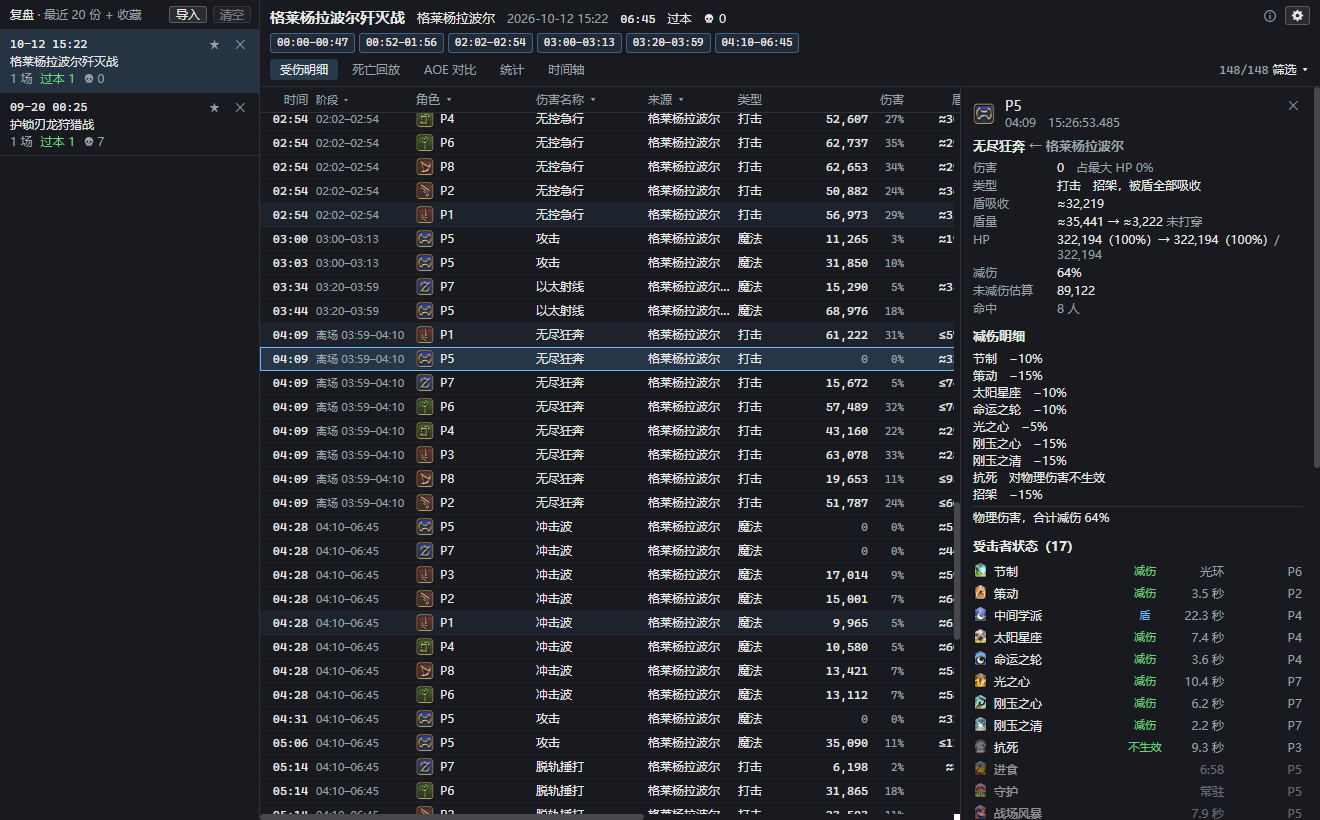
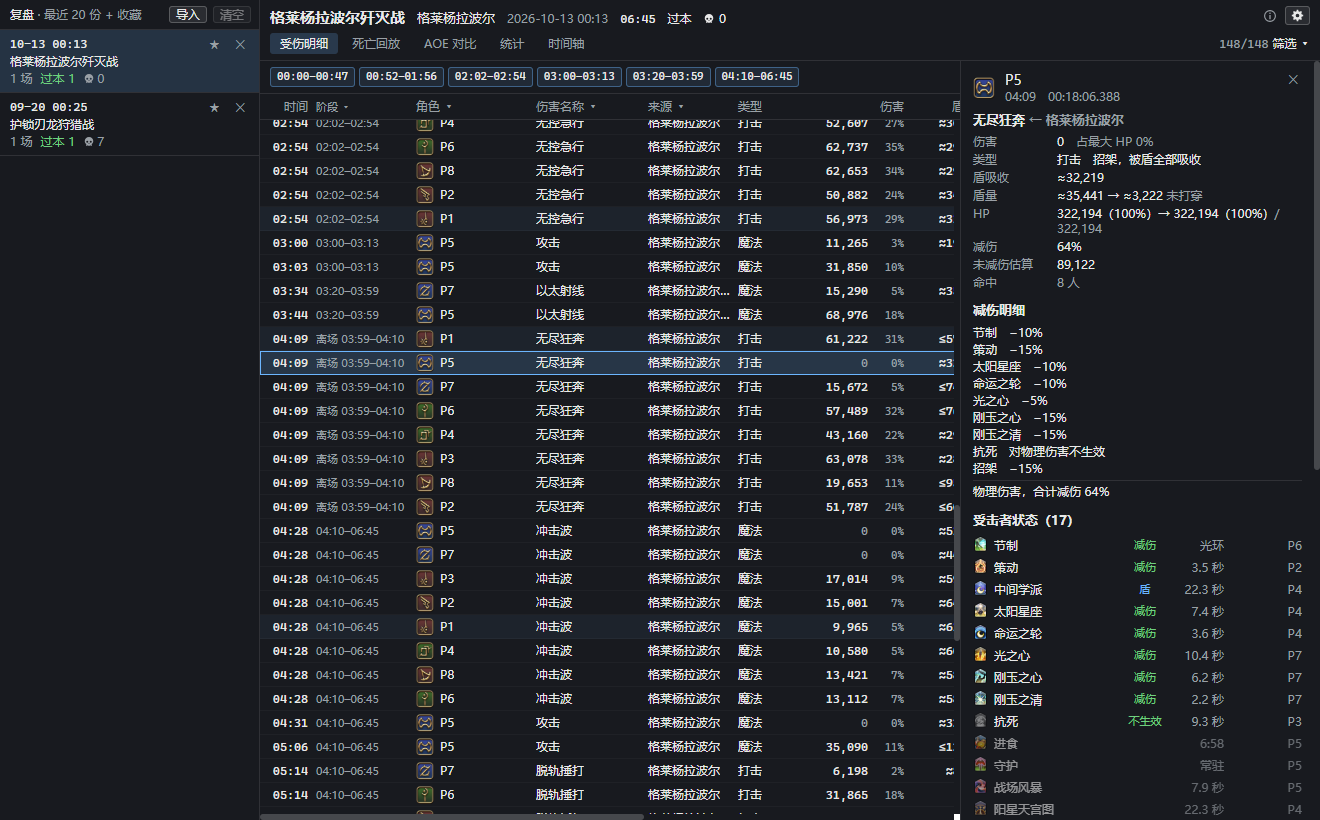
Review window: the phase chips above the damage table only
The chips under the title showed on every tab, yet they narrow the damage
table only: clicked on another tab they jumped back to 受伤明细, and the
one chosen stayed lit over AOE 对比 and the rest. They now sit above the
damage table, on that tab alone; the other tabs show the phases their own
way (AOE 对比's column, 统计's range, the timeline's lane, the death
list). The tab bar no longer moves when switching. The smoke test checks
they are not on AOE 对比 and sit above the table; DESIGN.md's layout and
the README's screenshots follow.

diff --git a/src/app/pages/ReviewPage.vue b/src/app/pages/ReviewPage.vue
@@ -198,7 +198,6 @@ const onlyPhase = computed(() => {
 /** A phase chip: the damage table showing only that stretch 在场 (again: all of them). */
 function showPhase(label: string): void {
   filterState.update({ hiddenPhases: onlyPhase.value === label ? [] : inPlay.value.map((p) => p.label).filter((x) => x !== label) });
-  if (tab.value !== "damage") go({ tab: "damage", row: undefined });
 }
 /** The timeline's lanes; computed only while the timeline tab shows them. */
 const timeline = computed(() => {
@@ -265,18 +264,6 @@ const header = computed(() => {
           <span class="deaths" title="死亡次数"><UiIcon name="death" /> {{ header.deaths }}</span>
         </div>
         <div v-else class="title dim">{{ loading ? "读取中…" : "选择左边的一场战斗" }}</div>
-        <div v-if="loaded && inPlay.length > 1" class="phases">
-          <button
-            v-for="p in inPlay"
-            :key="p.label"
-            class="phase-chip num"
-            :class="{ on: onlyPhase === p.label }"
-            :title="`${phaseSpan(p, loaded.meta.start, phaseEnd)}\n点击：受伤明细只看这一段在场的时间，再点一次恢复`"
-            @click="showPhase(p.label)"
-          >
-            {{ p.label }}
-          </button>
-        </div>
         <div class="top-actions">
           <CalcNotes />
           <button class="gear" title="设置" aria-label="设置" @click="openSettingsWindow()"><UiIcon name="gear" :size="13" /></button>
@@ -304,17 +291,31 @@ const header = computed(() => {
         <div v-if="error" class="error">{{ error }}</div>
       </div>
       <div class="content">
-        <DamageTable
-          v-if="tab === 'damage'"
-          :rows="shown"
-          :by-id="loaded?.byId ?? new Map()"
-          :options="options"
-          :selected-id="selectedRowId"
-          :scroll-to="scrollToId"
-          :self-id="loaded?.selfId"
-          :phase-of="phaseLabelOf"
-          @select="selectRow"
-        />
+        <!-- The stretches 在场 narrow the damage table only, so they sit above it. -->
+        <div v-if="tab === 'damage'" class="damage-tab">
+          <div v-if="loaded && inPlay.length > 1" class="phases">
+            <button
+              v-for="p in inPlay"
+              :key="p.label"
+              class="phase-chip num"
+              :class="{ on: onlyPhase === p.label }"
+              :title="`${phaseSpan(p, loaded.meta.start, phaseEnd)}\n点击：只看这一段在场的时间，再点一次恢复`"
+              @click="showPhase(p.label)"
+            >
+              {{ p.label }}
+            </button>
+          </div>
+          <DamageTable
+            :rows="shown"
+            :by-id="loaded?.byId ?? new Map()"
+            :options="options"
+            :selected-id="selectedRowId"
+            :scroll-to="scrollToId"
+            :self-id="loaded?.selfId"
+            :phase-of="phaseLabelOf"
+            @select="selectRow"
+          />
+        </div>
         <!-- One instance per encounter: their own state (filters, selection) survives the live reloads of a recording. -->
         <template v-else-if="loaded">
           <DeathReplay
@@ -414,11 +415,20 @@ main {
 .live {
   color: var(--ok);
 }
+.damage-tab {
+  flex: 1;
+  min-width: 0;
+  min-height: 0;
+  display: flex;
+  flex-direction: column;
+}
 .phases {
+  flex: none;
   display: flex;
   flex-wrap: wrap;
   gap: 4px;
-  margin-bottom: 6px;
+  padding: 6px 10px;
+  border-bottom: 1px solid var(--line);
 }
 .phase-chip {
   padding: 0 6px;

diff --git a/docs/DESIGN.md b/docs/DESIGN.md
@@ -523,7 +523,7 @@ ACT 的解析范围（Parse Filter）不影响日志行（2.1），但决定 ACT
 - **同一时刻的变化一起算**：刚开始就结束的离场不算；在上一段离场结束的那一刻又开始的离场，并回上一段（xivanalysis 把首尾相接的停手时间合并）。这不是时长阈值，两者的长度都是 0
 - **主 boss**：玩家打过的敌人里最大 HP 最高的那个，只用来显示 HP
 - **不编号**：每个副本的 P1、P2 是社区攻略的叫法，不一定和离场、可选与否的划分一致，所以不叫 P 几。窗口之间的“在场”时段和“离场”窗口都按这一场里的时间命名：`00:00–00:47`、`离场 00:47–00:52`；还没结束的写“03:40 起”。直到战斗结束都没回来的窗口是战斗的结局（击杀、团灭），不算
-- **筛选只列在场时段**：复盘标题下的阶段按钮、伤害表阶段列的过滤、统计页的范围只列在场时段，不列离场窗口；勾掉任何一段时，离场窗口里的受击也隐藏（筛选显示的是勾选的在场时段）。名字是这一场的时间，换一场就清掉阶段过滤
+- **筛选只列在场时段**：受伤明细上方的阶段按钮、伤害表阶段列的过滤、统计页的范围只列在场时段，不列离场窗口；勾掉任何一段时，离场窗口里的受击也隐藏（筛选显示的是勾选的在场时段）。名字是这一场的时间，换一场就清掉阶段过滤
 - 效果：格莱杨拉波尔（`trial-phases` 夹具）有六段在场、五段离场（三次约 6 秒的跳开各是一段离场，转场中间小怪可打的那段是一段在场）
 - **只存窗口，不存阶段**：引擎把主 boss（`Encounter.boss`）和不可选窗口（`Encounter.untargetable`）记在场次上，阶段由 `derivePhases(encounter, now)` 现算；一行属于哪个阶段按时间查（`phaseAt`），行里不存。规则改了，旧存档重算就生效（3.2）
 - **局限**：换体的 boss（新的 ID、相同的最大 HP）只跟踪第一体的 HP，后面阶段的 HP 停在换体时（温达斯：第三巡行的神龙）；一次拉多个小 boss 的副本，主 boss 可能中途换人。阶段只用来分段，HP 数字仅供参考
@@ -785,8 +785,8 @@ class ReplayDetail {
 ```
 ┌────────────────────────┬───────────────────────────────────────────────────────────────┐
 │ 复盘 · 保留最近 20 份   │ 水晶塔 希尔科斯塔 · 始皇帝赞德 · 第 2 / 2 场 · 20:09 · 02:44 · 过本 │
-│ 10-08 20:00      ★ ✕  │ [00:00–01:35] [01:47–02:37]   （只列在场时段）                  │
-│ 水晶塔 希尔科斯塔        │ [受伤明细] [死亡回放] [AOE 对比] [统计] [时间轴]                  │
+│ 10-08 20:00      ★ ✕  │ [受伤明细] [死亡回放] [AOE 对比] [统计] [时间轴]                  │
+│ 水晶塔 希尔科斯塔        │ [00:00–01:35] [01:47–02:37]   （受伤明细的，只列在场时段）      │
 │ 2 场 过本 1 骷髅 0         │ ┌──────────────────────────────────────────┬────────────────┐ │
 │  1 20:09 才思敏捷的亚蒙  │ │ 当前标签页                                │ 详情侧栏        │ │
 │  2 20:09 始皇帝赞德 过本 │ │                                          │ 选中行的完整快照 │ │
@@ -795,7 +795,7 @@ class ReplayDetail {
 └────────────────────────┴───────────────────────────────────────────────────────────────┘
 ```
 
-左栏是复盘列表（2026-10-08 起按份列出，6.2）：每一份是一次进入区域的全部战斗，写着进入后第一场的时间、区域、场数、过本 / 团灭各几场、死亡数，可收藏、删除（整份），导出在 M9；从日志导入的标“导入”（悬停看文件名）。标题栏右边的“导入日志”从 ACT 的网络日志里选场次导入（9.5）。新的在上，有一场正在记录的标“记录中”并实时更新。点一份打开它最近的一场；选中的那份在下面列出各场（序号、开打时间、主要敌人的名字、结果、时长、死亡数），点一场切过去，一份只有一场时不列。顶部标题栏显示区域、这一场的主要敌人、第几场 / 共几场、开始时间、时长、结果、死亡数，没有过本时（团灭、未知、记录中）加上 boss 最后的 HP，如“炽红 剩余 12.3%”；标题下面一排是阶段（5.9，只有一个阶段时不显示），每个阶段一个按钮，写着起止时间，悬停看 boss HP 的变化，点一下受伤明细只看这个阶段（等于表头的阶段过滤），再点一下恢复；标签页：受伤明细、死亡回放、AOE 对比、统计（M5）、时间轴（M8，8.6）。
+左栏是复盘列表（2026-10-08 起按份列出，6.2）：每一份是一次进入区域的全部战斗，写着进入后第一场的时间、区域、场数、过本 / 团灭各几场、死亡数，可收藏、删除（整份），导出在 M9；从日志导入的标“导入”（悬停看文件名）。标题栏右边的“导入日志”从 ACT 的网络日志里选场次导入（9.5）。新的在上，有一场正在记录的标“记录中”并实时更新。点一份打开它最近的一场；选中的那份在下面列出各场（序号、开打时间、主要敌人的名字、结果、时长、死亡数），点一场切过去，一份只有一场时不列。顶部标题栏显示区域、这一场的主要敌人、第几场 / 共几场、开始时间、时长、结果、死亡数，没有过本时（团灭、未知、记录中）加上 boss 最后的 HP，如“炽红 剩余 12.3%”；受伤明细的表格上方一排是阶段（5.9，只有一个阶段时不显示；2026-10-13 起放在这里，原先在标题下面、每个标签页都有，却只对受伤明细起作用，用户反馈不合逻辑），每个阶段一个按钮，写着起止时间，悬停看 boss HP 的变化，点一下受伤明细只看这个阶段（等于表头的阶段过滤），再点一下恢复；标签页：受伤明细、死亡回放、AOE 对比、统计（M5）、时间轴（M8，8.6）。
 
 实现：`app/pages/ReviewPage.vue`，组件在 `app/components/review/`（`EncounterList`、`DamageTable`、`DetailPanel`、`DeathReplay`、`HpChart`、`AoeCompare`、`StatsView`、`CalcNotes`），读存档和实时跟看在 `app/composables/useReviewArchive.ts`。
 
@@ -835,7 +835,7 @@ class ReplayDetail {
 
 **护盾报告分不开的几下**（5.6）：每一下各占一行（2026-10-08 起，原先合成一行“护龙威压 ×3 + 咆哮”）；盾吸收列写同组合计“共≈…”，同组的每一下和合计（伤害、盾吸收、未减伤估算）在详情侧栏里看。
 
-**阶段过滤**：阶段列的表头和标题下的阶段按钮是同一个条件（`RowFilter.hiddenPhases`），只列在场时段，不列离场窗口；勾掉任何一段时离场窗口里的受击也隐藏。名字是这一场里的时间，换一场就清掉。隐藏的时段里，死亡行也一起隐藏（死亡行不受伤害名称、来源过滤影响，7.2）。
+**阶段过滤**：阶段列的表头和表格上方的阶段按钮是同一个条件（`RowFilter.hiddenPhases`），只列在场时段，不列离场窗口；勾掉任何一段时离场窗口里的受击也隐藏。名字是这一场里的时间，换一场就清掉。隐藏的时段里，死亡行也一起隐藏（死亡行不受伤害名称、来源过滤影响，7.2）。
 
 点行打开**详情侧栏**（宽 360px，文字可选中复制）：
 
